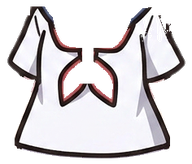
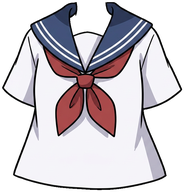
Fix the sailor blouse: its collar was being read as line art
The navy collar sits at luminance 73 and the red neckerchief at 113, both
under DARK's 115, so both were classified as outline rather than fill and
dropped. 96% of the collar was missing — the blouse has shipped as a plain
white shirt since it was first extracted.

The self-tuning loop never caught it because it asks whether the figure is
mostly dark: these are 24.5% of it, under the 30% that trips DARK_SHARE. So
a garment can be mostly light and still need an override. What matters is
whether any fill falls below the threshold, not the garment's overall
darkness. 55 sits clear of the real line art, whose median is 29.

The shoulder cut added earlier is removed: the white chip it targeted was
the missing collar leaving a bare shoulder behind, so with the collar
restored the cut was eating the collar instead. The icon cuts go too — they
were tuned against the broken extraction, and a supplied icon supersedes
them.

diff --git a/web/index.html b/web/index.html
@@ -16,7 +16,7 @@
 <meta name="apple-mobile-web-app-title" content="Moodmate">
 <link rel="manifest" href="manifest.webmanifest">
 <link rel="apple-touch-icon" href="assets/appicon-192.png">
-<link rel="stylesheet" href="styles.css?v=395daccf44">
+<link rel="stylesheet" href="styles.css?v=3427a0ccaf">
 <script>
   /* Runs before first paint, so a chosen theme doesn't arrive a frame late as
      a white flash. app.js reads the same key and owns it from there. */
@@ -159,7 +159,7 @@
 
 <div class="lightbox" id="lightbox" hidden></div>
 
-<script src="i18n.js?v=395daccf44"></script>
-<script src="app.js?v=395daccf44"></script>
+<script src="i18n.js?v=3427a0ccaf"></script>
+<script src="app.js?v=3427a0ccaf"></script>
 </body>
 </html>

diff --git a/web/sw.js b/web/sw.js
@@ -5,7 +5,7 @@
 // Stamped by export_web.py from a hash of the built assets. It must change
 // whenever any asset does, because the image rule below is cache-first and a
 // cache keyed by a constant name is never invalidated.
-const CACHE = "moodmate-395daccf44";
+const CACHE = "moodmate-3427a0ccaf";
 const SHELL = [
   ".", "index.html", "styles.css", "app.js",
   "manifest.webmanifest", "assets/items.json",

diff --git a/process_item.py b/process_item.py
@@ -466,7 +466,17 @@ def main(render_path, name, master_name="base_char_master.png", dark_override=No
 # recoverable from the output: reprocessing the navy gakuran without it silently
 # yields 26863px instead of 44606px — a valid-looking layer missing a third of
 # the jacket.
-DARK_OVERRIDES = {"male_gakuran": 55}
+#
+# The sailor blouse is the subtler case, and it shipped broken for weeks. Only
+# part of it is dark: the navy collar sits at luminance 73 and the red
+# neckerchief at 113, both under DARK's 115, so both were read as line art
+# rather than fill and 96% of the collar was dropped. The self-tuning loop never
+# fires because they are small next to the whole figure — 24.5% of it, under the
+# 30% that would trip DARK_SHARE. A garment can therefore be mostly light and
+# still need an override; what matters is whether any *fill* falls below the
+# threshold, not how dark the garment is overall. 55 sits clear of the real line
+# art, whose median is 29.
+DARK_OVERRIDES = {"male_gakuran": 55, "sailor": 55}
 
 
 if __name__ == "__main__":
